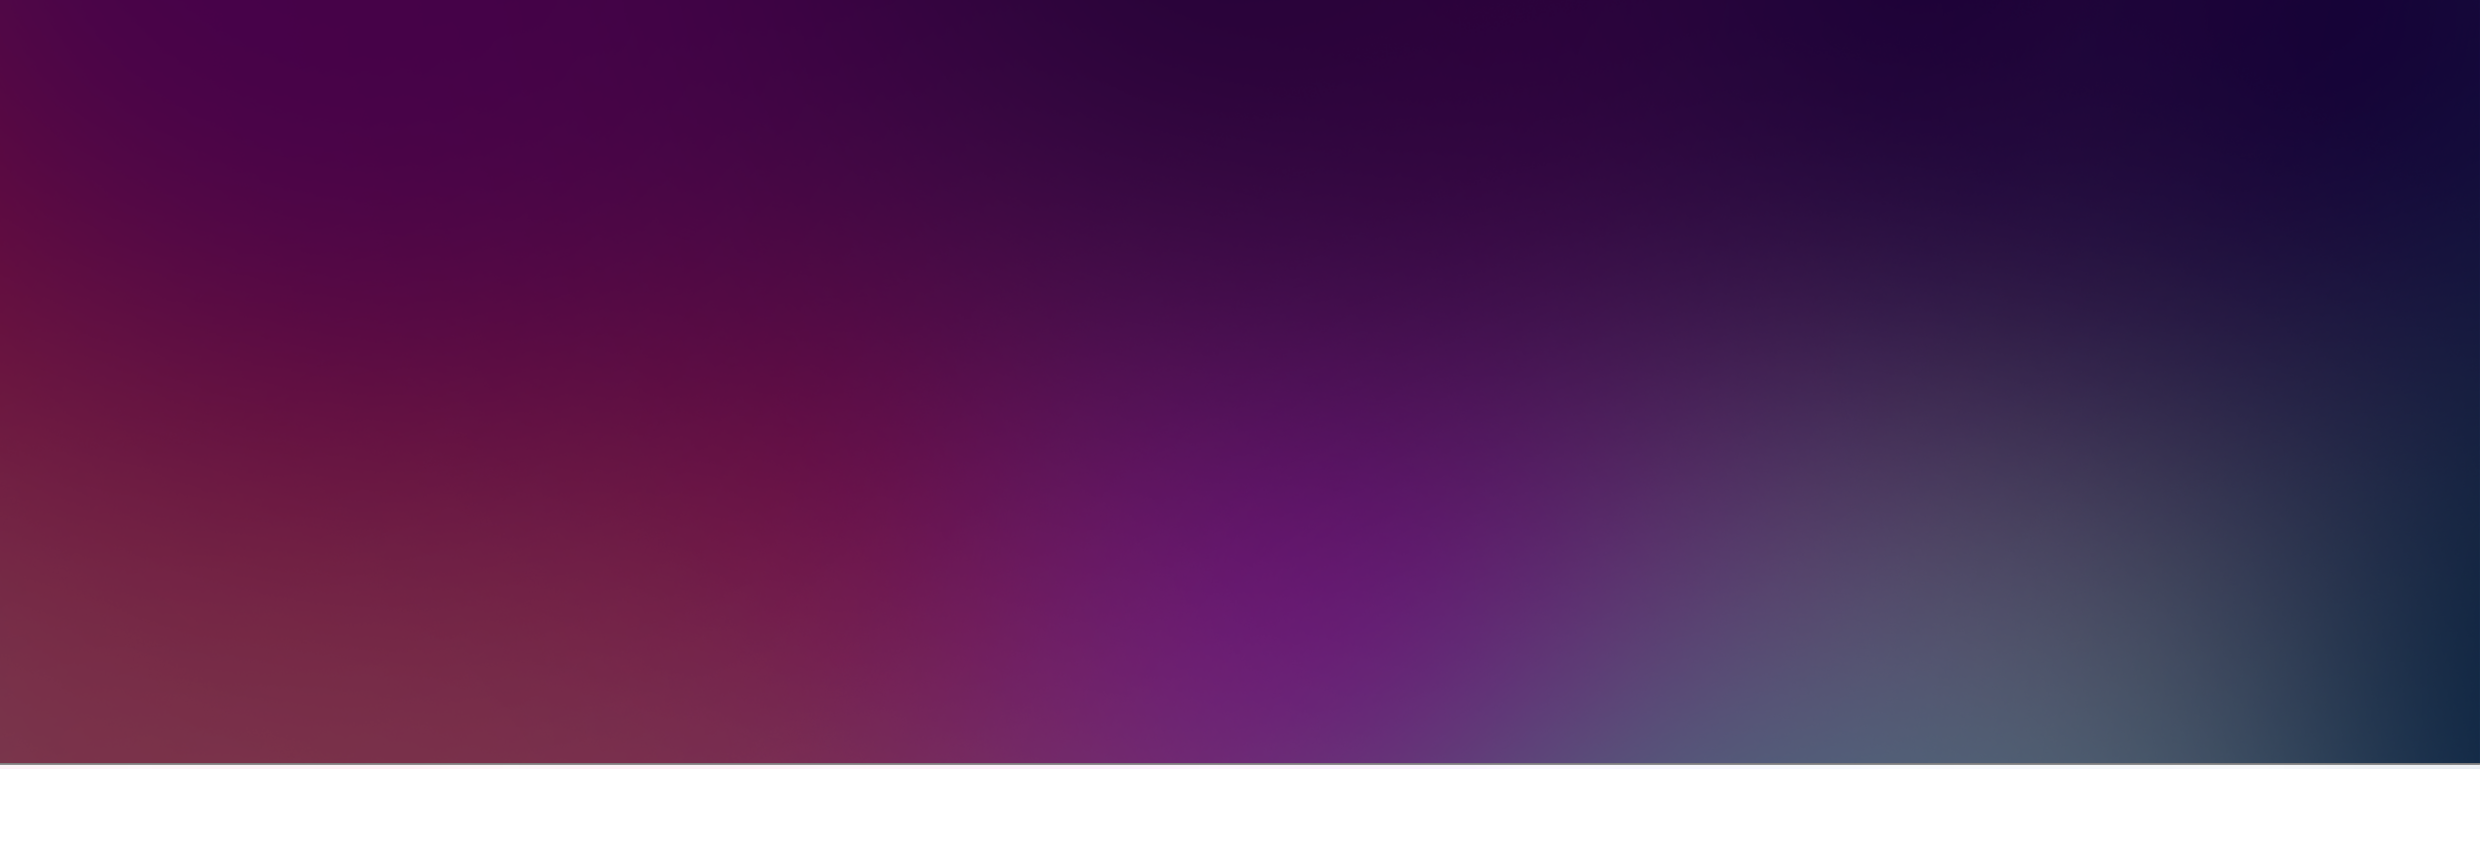
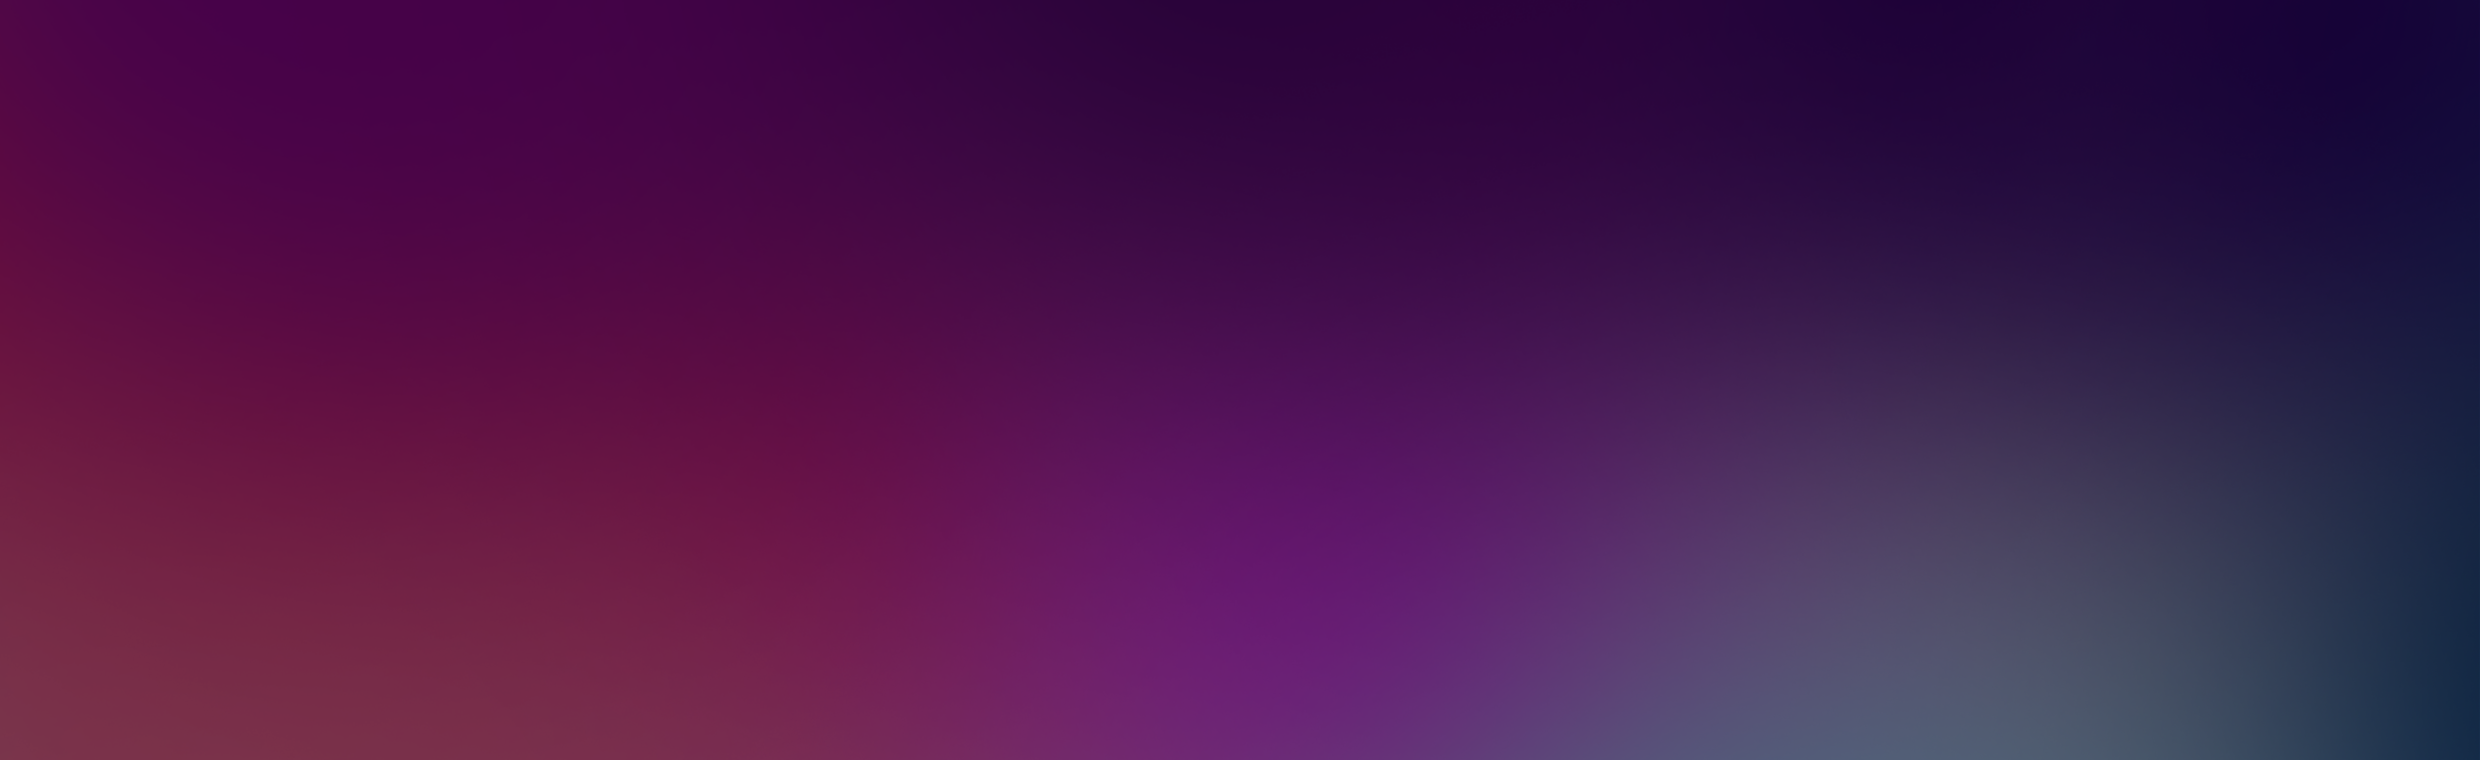
Header adjust image size

Changed region(s): [[0.0, 0.9079, 1.0, 1.0]]

diff --git a/src/app/app.component.css b/src/app/app.component.css
@@ -6,10 +6,6 @@
     display: block;
 }
 
-.banner.img-responsive{
-    margin-bottom: -3.3%;
-}
-
 .logo.img-responsive{
     width: 50%;
     margin: auto;
@@ -21,7 +17,7 @@
 .navbar{
       margin-bottom: 50px;
       border-radius: 0;
-      background-color: black;
+      background-color: transparent;
       border: none;
       opacity: 0.9;
 }
